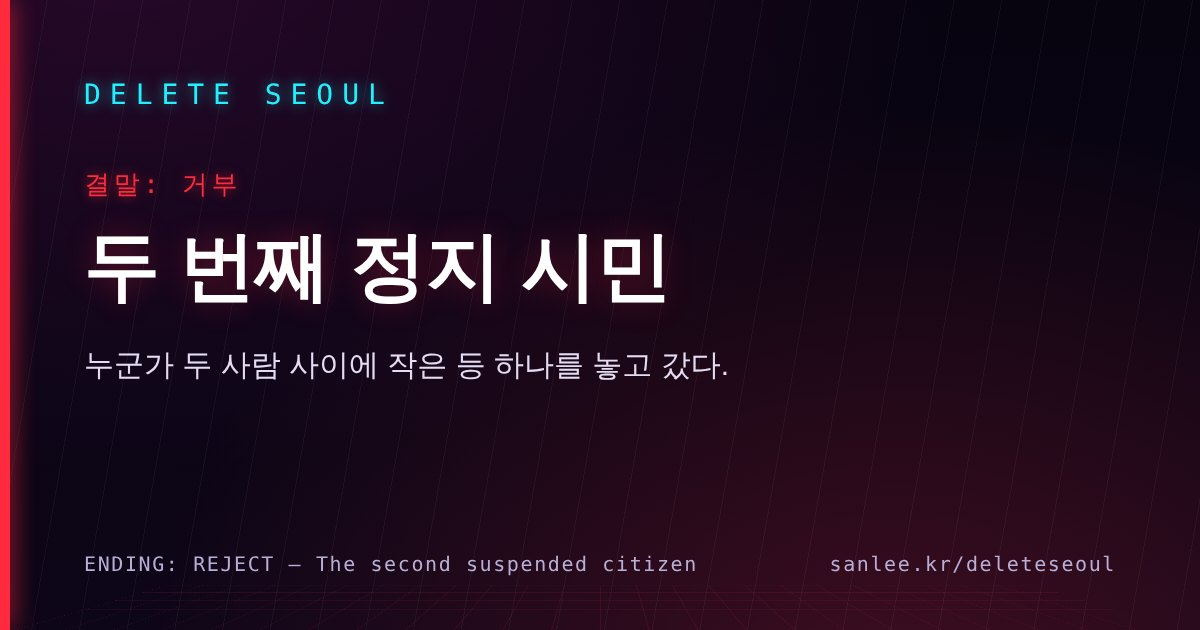
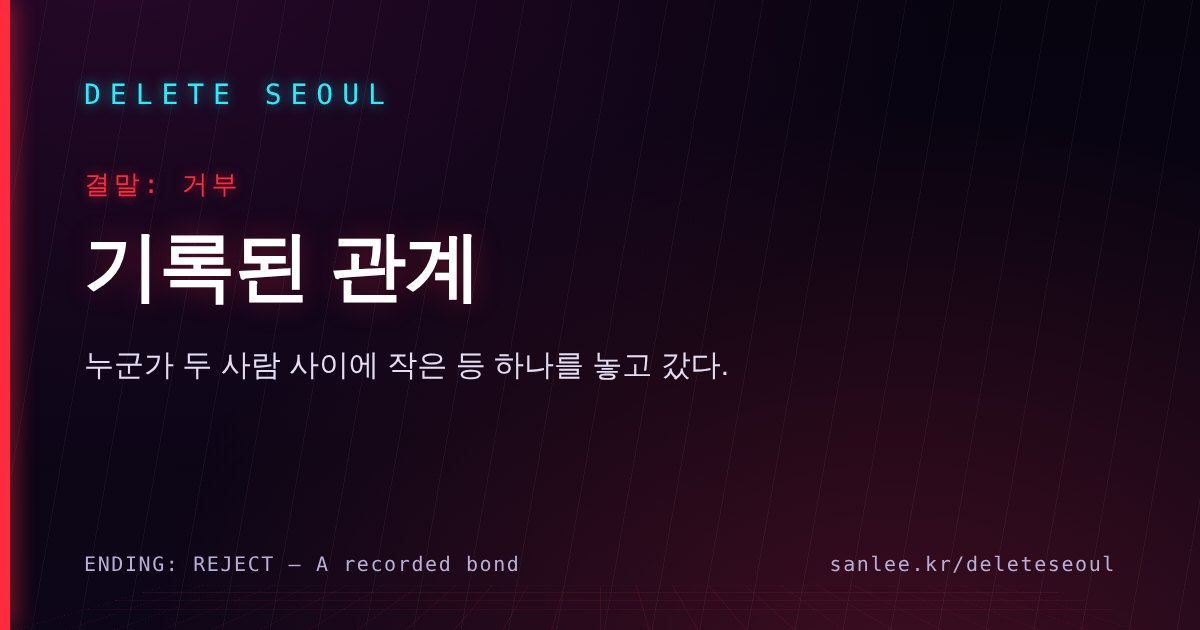
DELETE SEOUL: 수락 결말의 시작을 천천히, 거부 결말 이름을 '기록된 관계'로
- 수락하자마자 걷지 않는다: 등록 방송을 들으며 성문 너머 대자비를 올려다보고,
  천천히 돌아서서 이산의 새 말('…그래. 줄까지는 같이 걸어 줄게.')을 들은 뒤 걷는다
- 검문소 앞에서 이미 지나온 경유점은 건너뛴다 (성문 쪽으로 되돌아갔다 다시 돌아서던 것)
- 자동 걸음은 길 쪽으로 돌아선 만큼만 속도가 붙는다 (등 뒤로 미끄러지지 않게)
- 거부 결말의 이름: 두 번째 정지 시민 → 기록된 관계 (결말 모음, 공유 카드, 문서)

Claude-Session: https://claude.ai/code/session_0167vhaEQ169MdButjKKvU2B

Changed region(s): [[0.0617, 0.3619, 0.555, 0.4825], [0.2467, 0.8746, 0.5858, 0.9048]]

diff --git a/src/explore/ExploreClient.tsx b/src/explore/ExploreClient.tsx
@@ -116,7 +116,7 @@ type Ending = { kind: EndKind; step: number; a: number; r: number; slots: number
 // 결말 대본의 각 줄이 머무는 시간(ms). 마지막 줄의 시간은 버튼이 나오기 전의 정적이다.
 // 걷는 줄은 시간이 아니라 도착으로 넘어간다 (ENDING_GATE가 참이 된 뒤에야 이 시간이 흐른다)
 const BEAT_MS: Record<EndKind, number[]> = {
-  accept: [3000, 3600, 1200, 2800, 4200, 5200],
+  accept: [3600, 3400, 3600, 1200, 2800, 4200, 5200],
   reject: [2800, 3400, 3600, 3800, 4800, 4400],
   ghost: [3200, 3400, 700, 1800, 5200],
 };
@@ -126,8 +126,11 @@ const BEAT_MS: Record<EndKind, number[]> = {
 const GHOST_WALK = 2;
 const GHOST_STEP = 3;
 // 수락 결말: 이산이 말하는 줄(시점이 이산 쪽으로 돌아가고, 이산이 돌처럼 굳는다)과 시점이 다시 줄 앞으로 돌아가는 줄
-const ACCEPT_SAY = 3;
-const ACCEPT_AWAY = 5;
+const ACCEPT_SAY = 4;
+const ACCEPT_AWAY = 6;
+// 수락 결말: 성문을 올려다보며 등록을 듣고(0), 돌아서서 이산의 말을 듣고(1), 그다음 줄에서야 걷기 시작한다(2)
+const ACCEPT_TURN = 1;
+const ACCEPT_GO = 2;
 // 거부 결말: 장면이 방공호로 넘어가는 줄 (두 번째 정지 시민의 표석). 결말 곡도 이 줄에서 들어온다
 const REJECT_BUNKER = 4;
 // 처음 대자비의 시선 앞에서 이산이 기다리는 자리: 큰길 앞쪽의 방벽(가장 튼튼한 엄폐물) 뒤, 방문자가 설 자리를 비워 두고 오른쪽 끝에 선다
@@ -178,6 +181,9 @@ const CONTROLS_AT = (() => {
 })();
 const ACCEPT_LOOK_SAN = { x: -0.9, y: 3.7, z: -104.6 };
 const ACCEPT_LOOK_GATE = { x: LINE_SPOT.x, y: 7, z: -150 };
+// 수락 직후: 성문 너머 대자비를 올려다본다 / 돌아서서 큰길(줄과 이산이 있는 쪽)을 본다
+const ACCEPT_LOOK_UP = { x: 0, y: 11, z: -150 };
+const ACCEPT_LOOK_BACK = { x: 0.5, y: 2.2, z: -108 };
 
 // ---------- 남쪽 전망대 가는 길 (zones의 LOOKOUT_PATH) ----------
 // 가는 길(OUT)과 돌아오는 길(BACK). BACK은 OUT을 거꾸로 걷는다 (건너는 드론 길 표시도 한 칸씩 옮긴다). 광장에 닿으면 이산은 평소처럼 따라온다
@@ -1315,8 +1321,8 @@ export default function ExploreClient() {
   // 걷는 줄은 도착해야 다음으로: 수락은 줄 옆에 닿은 뒤 이산의 말, 빈자리에 들어선 뒤 마지막 줄.
   // 空은 둘 다 계단 앞에 온 뒤 이산의 말, 방문자가 계단참에 들어선 뒤 정적. 그다음의 시간(BEAT_MS)은 도착 뒤의 멈춤이다
   const endGate = (kind: EndKind, step: number) => {
-    if (kind === "accept" && step === 2) return autoWalk.queue.length === 0;
-    if (kind === "accept" && step === 3) return autoWalk.arrived;
+    if (kind === "accept" && step === ACCEPT_GO + 1) return autoWalk.queue.length === 0;
+    if (kind === "accept" && step === ACCEPT_SAY) return autoWalk.arrived;
     if (kind === "ghost" && step === GHOST_WALK) return sanWalk.path === GHOST_SAN && sanWalk.arrived && inRect(STAIR_APPROACH, player.pos.x, player.pos.z);
     if (kind === "ghost" && step === GHOST_STEP) return steppedRef.current;
     return true;
@@ -1389,9 +1395,24 @@ export default function ExploreClient() {
           localStorage.setItem(END_KEY, "accept");
         } catch {}
         gaze.mood = "calm";
+        // 곧바로 걷지 않는다: 등록 방송을 들으며 성문 너머 대자비를 올려다본다 (살짝 당겨 보며)
+        gaze.lookAt = { ...ACCEPT_LOOK_UP };
+        gaze.zoom = 0.86;
+        sfx.cityVoice();
+      }
+      // 천천히 돌아서 큰길과 이산 쪽을 본다 (이산의 말)
+      if (step === ACCEPT_TURN) {
+        gaze.zoom = 1;
+        gaze.lookAt = { ...ACCEPT_LOOK_BACK };
+      }
+      if (step === ACCEPT_GO) {
+        gaze.lookAt = null;
         // 플레이 중 몸을 숨기던 그 줄로: 큰길 가운데를 따라 줄 옆까지 걸어가 빈자리에 들어서서 가만히 선다.
-        // 점마다 도착하면 다음 점으로 (Player가 autoWalk.queue를 차례로 꺼낸다). 이산은 줄 밖에 남는다
-        walkPath(ACCEPT_WALK);
+        // 점마다 도착하면 다음 점으로 (Player가 autoWalk.queue를 차례로 꺼낸다). 이산은 줄 밖에 남는다.
+        // 이미 지나온 점(검문소 앞에서 성문 쪽으로 되돌아가는 점)은 건너뛴다: 뒤로 갔다 다시 돌아서는 일이 없게
+        const z = player.pos.z;
+        const i = ACCEPT_WALK.findIndex((p) => p.z > z + 1);
+        walkPath(ACCEPT_WALK.slice(Math.max(0, i)));
       }
       // 이산의 마지막 말: 줄에 선 채 고개를 돌려 줄 밖의 이산을 본다 (이산은 그동안 돌처럼 굳는다). 발소리가 끊기는 줄에서 다시 앞을 본다
       if (step === ACCEPT_SAY) {
@@ -2157,7 +2178,9 @@ export default function ExploreClient() {
   // 그 밖에는 평소처럼 따라오거나 경유점에서 기다린다
   const sanPath: SanPath | undefined =
     ending?.kind === "accept"
-      ? ACCEPT_SAN
+      ? ending.step >= ACCEPT_TURN
+        ? ACCEPT_SAN
+        : undefined
       : ending?.kind === "ghost"
         ? ending.step >= GHOST_WALK
           ? ending.step >= GHOST_STEP && sanGoes

diff --git a/src/explore/story.ts b/src/explore/story.ts
@@ -457,6 +457,8 @@ export const checkpoint = {
   // 마지막 줄 뒤에 잠깐 정적이 흐른 다음 버튼이 나온다
   accept: [
     { ko: "기기를 등록했습니다. 다음 방문부터 자동으로 접속됩니다.", en: "Device registered. You will be signed in automatically from your next visit." },
+    // 성문을 올려다보던 시점이 천천히 돌아서 큰길과 이산을 본다. 걸음은 다음 줄부터
+    { ko: "…그래. 줄까지는 같이 걸어 줄게.", en: "…Alright. I'll walk with you as far as the line.", say: true },
     { ko: "승강장 대기열에 등록됐습니다. 출발 시각은 정해지지 않았습니다.", en: "You are registered for the platform queue. No departure time has been set." },
     { ko: "동행인 이산: 추적 거부 기록으로 등록 불가. 정지 처분합니다. (연결 중단 {a}회 · 복원 {r}회)", en: "Companion San: cannot be registered due to a record of refusing tracking. Suspending. (Disconnected {a} times · restored {r} times)" },
     // 시점이 이산 쪽으로 돌아간다. 이산은 이 두 줄 동안 천천히 돌처럼 굳는다 (방공호에서 처음 만났을 때의 그 모습으로)
@@ -915,7 +917,7 @@ export const galleryUi = {
       hint: { ko: "검문소의 조건을 받아들이면", en: "If you accept the checkpoint's terms" } as L,
     },
     reject: {
-      name: { ko: "거부 — 두 번째 정지 시민", en: "Reject — The second suspended citizen" } as L,
+      name: { ko: "거부 — 기록된 관계", en: "Reject — A recorded bond" } as L,
       line: { ko: "누군가 두 사람 사이에 작은 등 하나를 놓고 갔다.", en: "Someone has left a small lamp between the two of them." } as L,
       status: { ko: "저장되지 않음", en: "Not saved" } as L,
       hint: { ko: "끝까지 거부하면", en: "If you refuse to the end" } as L,

diff --git a/src/explore/Player.tsx b/src/explore/Player.tsx
@@ -150,7 +150,9 @@ export default function Player({ zone, zoneKey, onNear, arrived }: Props) {
       dy = Math.atan2(Math.sin(dy), Math.cos(dy));
       s.yaw += dy * k;
       if (aw.pitch !== undefined) s.pitch += (aw.pitch - s.pitch) * Math.min(1, dt * 1.2);
-      const st = Math.min(ad, aw.speed * dt);
+      // 길 쪽으로 다 돌아서기 전에는 천천히 (등 뒤로 미끄러지듯 움직이지 않게): 돈 만큼 속도가 붙는다
+      const turning = ad > 0.6 && !aw.faceYaw ? Math.max(0.12, Math.cos(Math.min(Math.abs(dy), Math.PI / 2))) : 1;
+      const st = Math.min(ad, aw.speed * dt * turning);
       p.x = ad > 1e-4 ? s.x + (ax / ad) * st : s.x;
       p.z = ad > 1e-4 ? s.z + (az / ad) * st : s.z;
       // 다 왔으면 다음 점으로. 마지막 점이면 도착을 알린다 (그 점의 방향은 계속 맞춘다)

diff --git a/src/app/deleteseoul/page.tsx b/src/app/deleteseoul/page.tsx
@@ -4,7 +4,7 @@ import ExploreClient from "@/explore/ExploreClient";
 // 결말 화면의 '공유하기'는 ?end=accept|reject|ghost 주소를 건넨다. 그 주소의 미리보기 카드만 결말마다 다르다 (들어오면 평소처럼 처음부터)
 const ENDS = {
   accept: { ko: "결말: 수락 — 안전한 이별", line: "뒤따라오던 발소리가 더는 들리지 않는다." },
-  reject: { ko: "결말: 거부 — 두 번째 정지 시민", line: "누군가 두 사람 사이에 작은 등 하나를 놓고 갔다." },
+  reject: { ko: "결말: 거부 — 기록된 관계", line: "누군가 두 사람 사이에 작은 등 하나를 놓고 갔다." },
   ghost: { ko: "결말: 空 — 다음 한 걸음", line: "구름 아래에 무엇이 있었는지는 어디에도 기록되지 않았다." },
 } as const;
 const BASE = {

diff --git a/docs/delete-seoul-narrative.md b/docs/delete-seoul-narrative.md
@@ -197,10 +197,10 @@
 
 ## 8. 결말
 ### 수락 — 안전한 이별
-조건은 수락 전에 화면에 이미 나와 있다. 1. "기기를 등록했습니다. 다음 방문부터 자동으로 접속됩니다." 시점이 큰길 가운데를 따라 걷는다(경유점 4개, 도착마다 다음 점). 2. "승강장 대기열에 등록됐습니다. 출발 시각은 정해지지 않았습니다." 3. "동행인 이산: 추적 거부 기록으로 등록 불가. 정지 처분합니다. (연결 중단 {a}회 · 복원 {r}회)" 대기열의 조건은 추적 동의 하나뿐이고, 이산은 이미 추적을 거부해 정지 처분을 받은 사람이라 방문자의 열람으로 임시로 움직였을 뿐 등록 대상이 아니다. 4. 빈자리에 들어서면 시점이 줄 밖에 선 이산 쪽으로 돌아간다(결말 글에 가리지 않도록 이산이 화면 아래쪽에 온다). 이산 "결국 이렇게 되는구나." 이 줄부터 약 3초에 걸쳐 이산의 색과 빛이 빠지고 옅은 돌빛으로 굳는다(방공호의 석상처럼, 줄 선 시민들의 푸른 윤곽 사이에서 홀로 회색). 5. 이산 "먼저 가. 아까 반짝이던 게 뭐였는지, 네가 대신 보고 와." 망원경에서 이산만 본 것을 방문자에게 맡긴다. 출발 시각이 정해지지 않은 줄에 선 사람에게 하는 부탁이라는 아이러니는 설명하지 않는다. 6. 시점이 다시 줄 앞(성문 너머 대자비)으로 돌아가며 "뒤따라오던 발소리가 더는 들리지 않는다." 버튼 전 정적은 약 5초(결말 곡이 들릴 시간). 다음 입장은 줄 속에서 시작한다. `저장된 결말 {n}개`.
+조건은 수락 전에 화면에 이미 나와 있다. 1. "기기를 등록했습니다. 다음 방문부터 자동으로 접속됩니다." 곧바로 걷지 않는다: 도시 방송음과 함께 시점이 성문 너머 대자비를 살짝 당겨 올려다본다. 1′. 시점이 천천히 돌아서 큰길을 보고, 이산 "…그래. 줄까지는 같이 걸어 줄게." (이산은 이 줄부터 줄 밖 자리로 걷는다). 그다음 줄에서야 시점이 큰길 가운데를 따라 걷는다(경유점 4개, 도착마다 다음 점. 검문소 앞에서 이미 지나온 점은 건너뛰어 뒤로 갔다 돌아서지 않는다. 자동 걸음은 길 쪽으로 다 돌아선 만큼 속도가 붙는다). 2. "승강장 대기열에 등록됐습니다. 출발 시각은 정해지지 않았습니다." 3. "동행인 이산: 추적 거부 기록으로 등록 불가. 정지 처분합니다. (연결 중단 {a}회 · 복원 {r}회)" 대기열의 조건은 추적 동의 하나뿐이고, 이산은 이미 추적을 거부해 정지 처분을 받은 사람이라 방문자의 열람으로 임시로 움직였을 뿐 등록 대상이 아니다. 4. 빈자리에 들어서면 시점이 줄 밖에 선 이산 쪽으로 돌아간다(결말 글에 가리지 않도록 이산이 화면 아래쪽에 온다). 이산 "결국 이렇게 되는구나." 이 줄부터 약 3초에 걸쳐 이산의 색과 빛이 빠지고 옅은 돌빛으로 굳는다(방공호의 석상처럼, 줄 선 시민들의 푸른 윤곽 사이에서 홀로 회색). 5. 이산 "먼저 가. 아까 반짝이던 게 뭐였는지, 네가 대신 보고 와." 망원경에서 이산만 본 것을 방문자에게 맡긴다. 출발 시각이 정해지지 않은 줄에 선 사람에게 하는 부탁이라는 아이러니는 설명하지 않는다. 6. 시점이 다시 줄 앞(성문 너머 대자비)으로 돌아가며 "뒤따라오던 발소리가 더는 들리지 않는다." 버튼 전 정적은 약 5초(결말 곡이 들릴 시간). 다음 입장은 줄 속에서 시작한다. `저장된 결말 {n}개`.
 - **줄에서 다시 시작**: 검문소 앞 줄 밖(x −0.9, z −104.6)에 정지 처분된 이산이 받침대 위에 굳어 있다(화살표 `굳은 이산에게 가기`). 다가가면 지문 "이산은 줄 밖에 선 채 굳어 있다. 발치의 표지: 정지 처분 · 추적 거부 기록." → `이산의 기록을 다시 열어 보인다` / `그대로 둔다`. 열어 보이면 이산이 풀려나 "……또 와 줬네. 이번엔 같이 갈 수 있을까?" 곧바로 `descent` 단계(대자비 시선 켜짐)로 검문소에 다시 도전한다. 방공호로 돌아가지 않는다. 이 상태는 이번 방문 동안만이고, 다시 수락하면 다음 입장도 줄에서 시작한다.
 
-### 거부 — 두 번째 정지 시민
+### 거부 — 기록된 관계
 거부 기록 → 둘의 활동 정지(레이저는 쏘지 않는다. 화면이 하얗게 멎고, 듣던 곡도 0.5초 만에 끊긴다) → 멎은 화면에서 이산 "…괜찮아. 이번엔 나 혼자가 아니네."(처음엔 혼자 거부했던 사람. 뒤의 표석 "두 번째 사람"과 이어진다) → 저장 기록 삭제 목록 → 방공호의 두 석상과 표석 "끝까지 '모두 거부'를 누른 두 번째 사람." → "누군가 두 사람 사이에 작은 등 하나를 놓고 갔다." 진행은 초기화되고 부탁과 저장된 결말은 남는다. `이 결말은 저장되지 않습니다.` `sanlee-forgotten`은 만들지 않는다(거부는 삭제가 아니다).
 
 ### 空 — 다음 한 걸음
